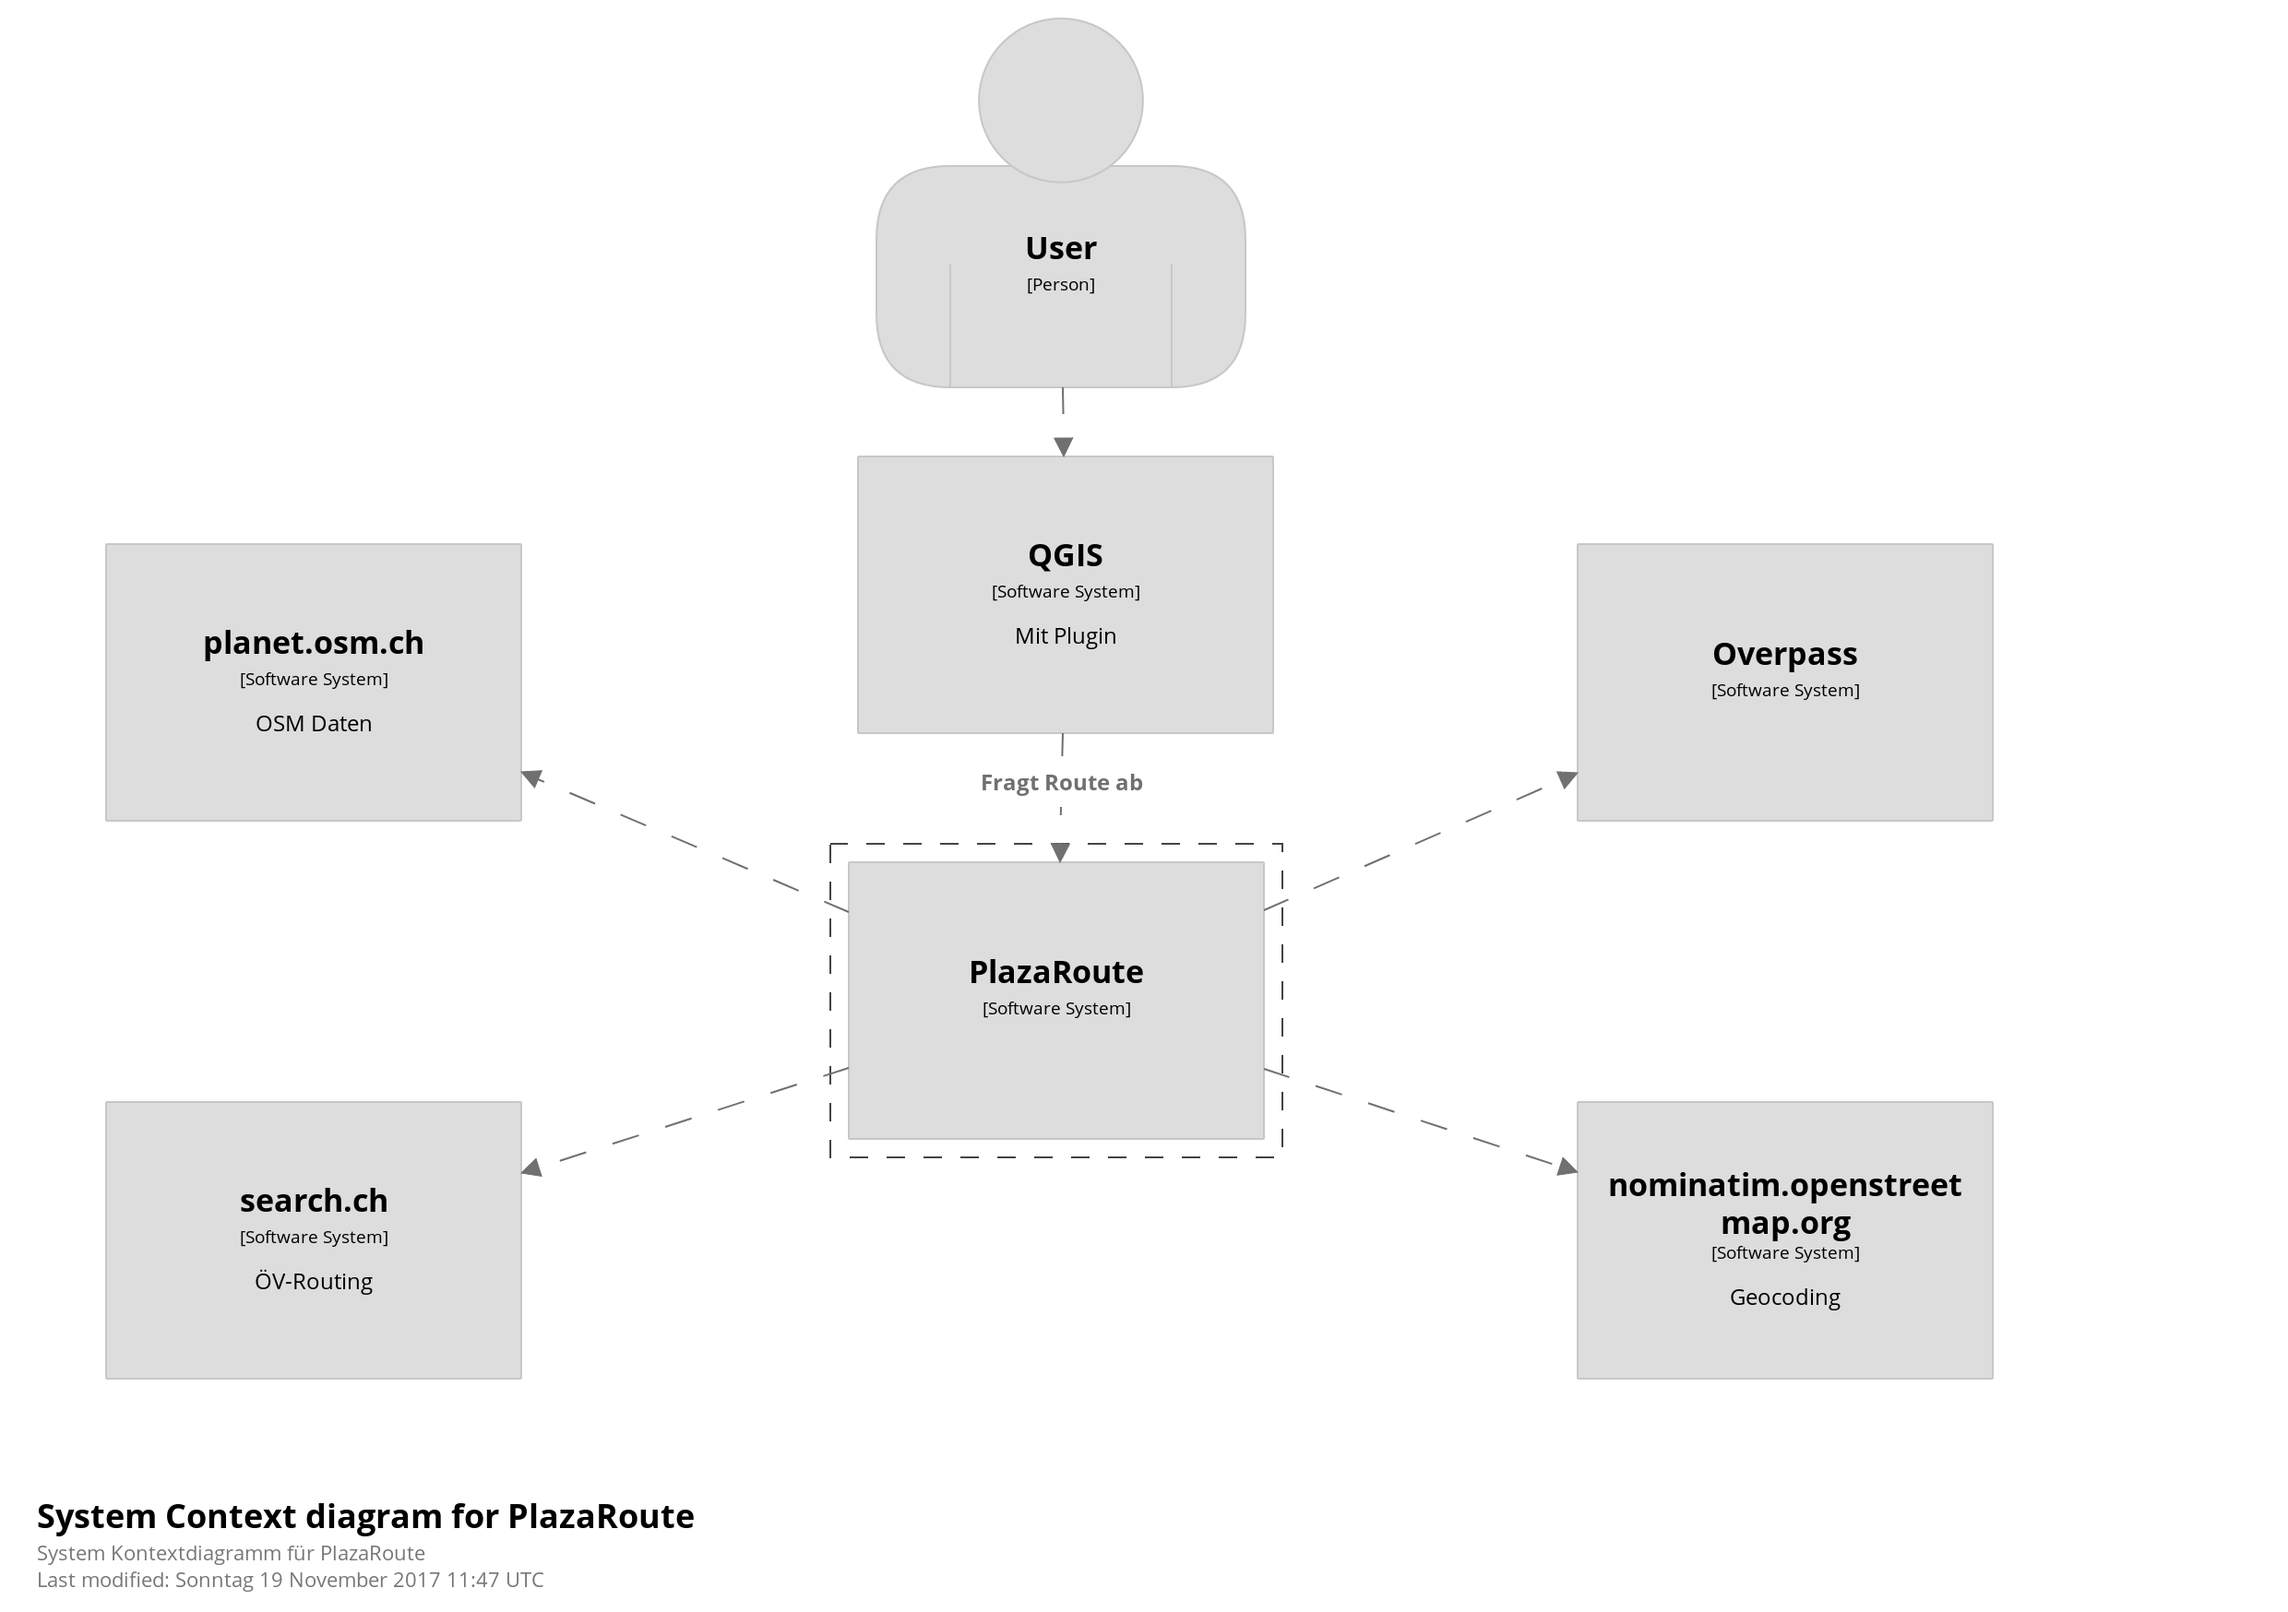
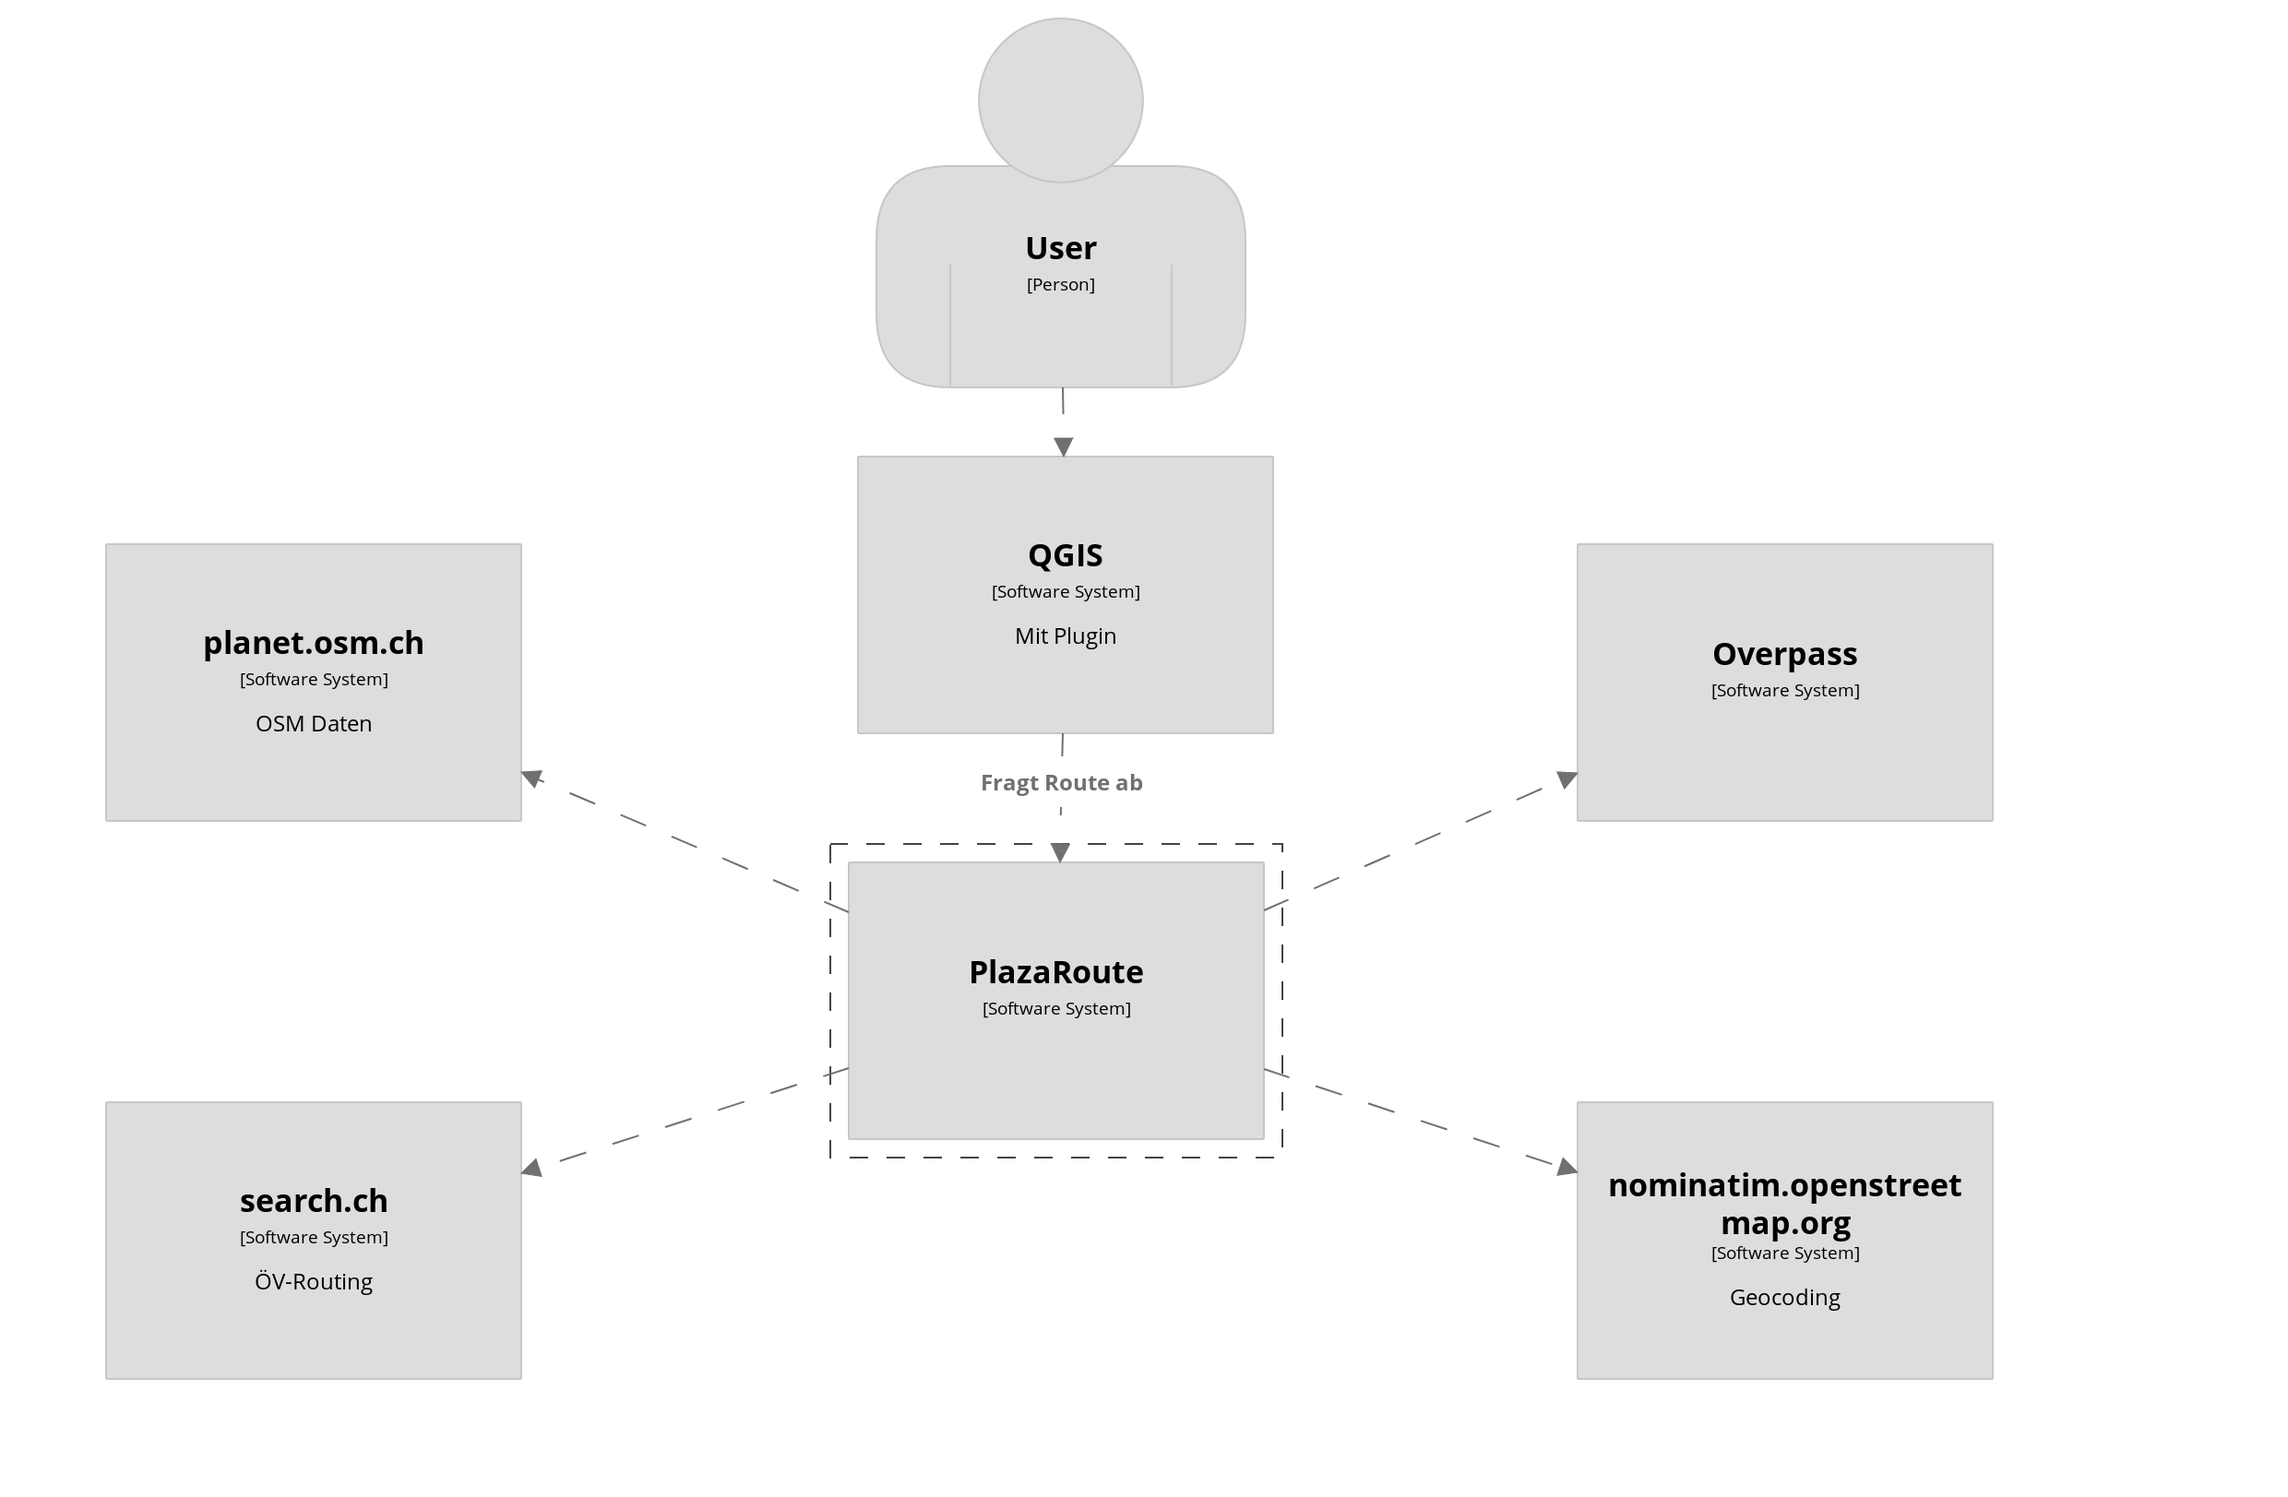
crop c4 images

diff --git a/projectdoc/architektur.tex b/projectdoc/architektur.tex
@@ -8,11 +8,10 @@ In diesem Kapitel wird die Architektur unserer Applikation und die Schnittstelle
 \label{architektur:Systemkontext}
 
 \begin{figure}[ht]
-\centering
-% TODO: Grafik zuschneiden
-\includegraphics[width=1\linewidth]{projectdoc/img/system-context_diagram.png}
-\caption[System Kontext Diagramm]{System PlazaRoute im Kontext mit Umsystemen; Grafik erstellt mit \emph{Structurizr Express}\cite{structurizr}}
-\label{fig:system_context_diagram}
+    \centering
+    \includegraphics[width=1\linewidth]{projectdoc/img/system-context_diagram.png}
+    \caption[System Kontext Diagramm]{System PlazaRoute im Kontext mit Umsystemen; Grafik erstellt mit \emph{Structurizr Express}\cite{structurizr}}
+    \label{fig:system_context_diagram}
 \end{figure}
 
 Abbildung \ref{fig:system_context_diagram} zeigt das System PlazaRoute mit den Umsystemen auf. Beim Betrachten der C4-Diagramme ist zu beachten, dass diese nicht der \acs{UML}-Spezifikation folgen. Gestrichelte Pfeile bedeuten, dass eine Anfrage in Richtung der Pfeilspitze an ein System geht. Der Datenfluss läuft in die entgegengesetzte Richtung der Pfeile.
@@ -24,11 +23,10 @@ Der User bedient die QGIS Desktop Applikation mit dem von uns entwickelten Plugi
 
 \begin{figure}[ht]
     \centering
-    % TODO: Grafik zuschneiden
     \includegraphics[width=1\linewidth]{projectdoc/img/container_diagram.png}
     \caption[Container Diagramm]{Container Diagramm von PlazaRoute; Das System PlazaRoute befindet sich in der eingerahmten Box; Grafik erstellt mit \emph{Structurizr Express}\cite{structurizr}}
     \label{fig:container_diagram}
-    \end{figure}
+\end{figure}
 
 In Abbildung \ref{fig:container_diagram} zoomen wir in das System PlazaRoute hinein und teilen es in drei Container auf, die logisch voneinander getrennt sind. So könnten die Container auch verteilt deployed werden.
 
@@ -55,11 +53,10 @@ Abbildung \ref{fig:component_diagram_vorverarbeitung} zeigt die einzelnen Kompon
 
 
 \begin{figure}[ht]
-\centering
-% TODO: Grafik zuschneiden
-\includegraphics[width=1\linewidth]{projectdoc/img/component_diagram_plaza-vorverarbeitung.png}
-\caption[Komponentendiagramm Vorverarbeitung]{Komponentendiagramm der Plaza Vorverarbeitung (eingerahmt); Grafik erstellt mit \emph{Structurizr Express}\cite{structurizr}}
-\label{fig:component_diagram_vorverarbeitung}
+    \centering
+    \includegraphics[width=1\linewidth]{projectdoc/img/component_diagram_plaza-vorverarbeitung.png}
+    \caption[Komponentendiagramm Vorverarbeitung]{Komponentendiagramm der Plaza Vorverarbeitung (eingerahmt); Grafik erstellt mit \emph{Structurizr Express}\cite{structurizr}}
+    \label{fig:component_diagram_vorverarbeitung}
 \end{figure}
 
 
@@ -144,9 +141,9 @@ Der \emph{RoutingEngineService} ist für das Fussgänger-Routing zuständig und 
 Das QGIS-Plugin ist unabhängig vom System PlazaRoute und läuft auf dem Client des Benutzers. Die Kommunikation mit dem Container Plaza Routing erfolgt über einen REST-Service. Das Plugin ist reiner Konsument und zeigt auf, welchen Mehrwert PlazaRoute bieten kann. In Abbildung \ref{fig:class_diagram_plaza_route_qgis_plugin} ist das Klassen-Diagramm zu sehen. Herausheben kann man, dass das Plugin in fünf Komponente zerlegt wird. \emph{PlazaRouteRoutingService} kommuniziert mit dem REST-Service (siehe Abschnitt \nameref{architektur:api-layer}). \emph{PlazaRouteMapTool} übernimmt die Interaktion mit der Karte und führt das Zeichnen der Route mit \emph{PlazaRouteRouteDrawer} durch. \emph{PlazaRouteRoutingGenerator} generiert ein Routing für die zurückgelieferte Route. Die zentrale Steuerung übernimmt das Dockwidget.
 
 \begin{figure}[th]
-\centering
-\includegraphics[width=1.0\linewidth]{projectdoc/img/class_diagram_plaza_route_qgis_plugin}
-\caption[Klassen-Diagramm Plaza Route QGIS Plugin]{Klassen-Diagramm Plaza Route QGIS Plugin}
-\label{fig:class_diagram_plaza_route_qgis_plugin}
+    \centering
+    \includegraphics[width=1.0\linewidth]{projectdoc/img/class_diagram_plaza_route_qgis_plugin}
+    \caption[Klassen-Diagramm Plaza Route QGIS Plugin]{Klassen-Diagramm Plaza Route QGIS Plugin}
+    \label{fig:class_diagram_plaza_route_qgis_plugin}
 \end{figure}
 
